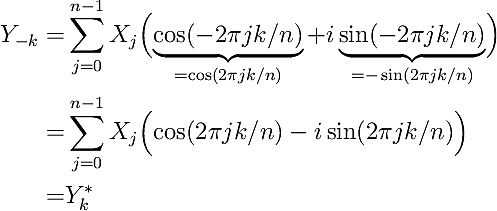
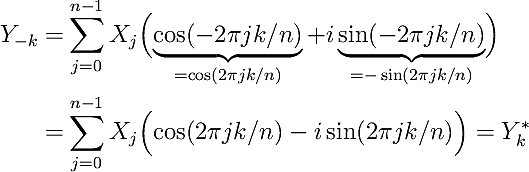
figure cleanup

diff --git a/eqn/hermitian_sum.tex b/eqn/hermitian_sum.tex
@@ -14,8 +14,7 @@
 \begin{document}
 \begin{align*}
 Y_{-k} =& \sum\limits_{j=0}^{n-1} X_j \Bigl( \underbrace{\cos(-2 \pi j k / n)}_{=\cos(2 \pi j k / n)} + i \underbrace{\sin(-2 \pi j k / n)}_{=-\sin(2 \pi j k / n)} \Bigr) \\
-       =& \sum\limits_{j=0}^{n-1} X_j \Bigl( \cos(2 \pi j k / n) - i \sin(2 \pi j k / n) \Bigr) \\
-       =& Y^{*}_k
+       =& \sum\limits_{j=0}^{n-1} X_j \Bigl( \cos(2 \pi j k / n) - i \sin(2 \pi j k / n) \Bigr) = Y^{*}_k
 \end{align*}
 \end{document}
 
